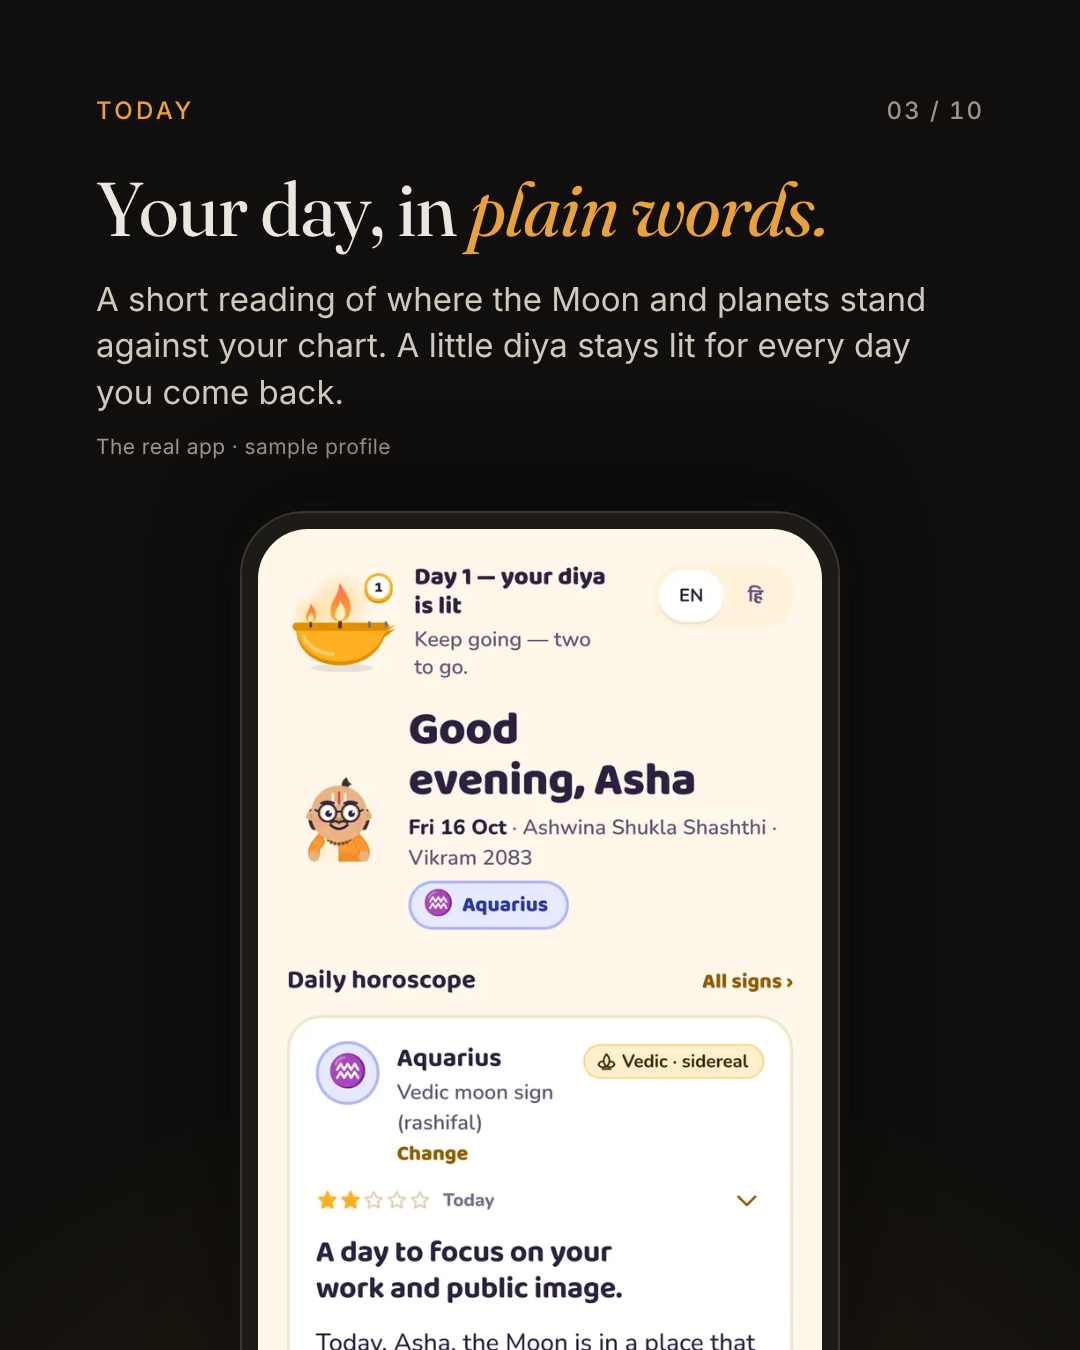
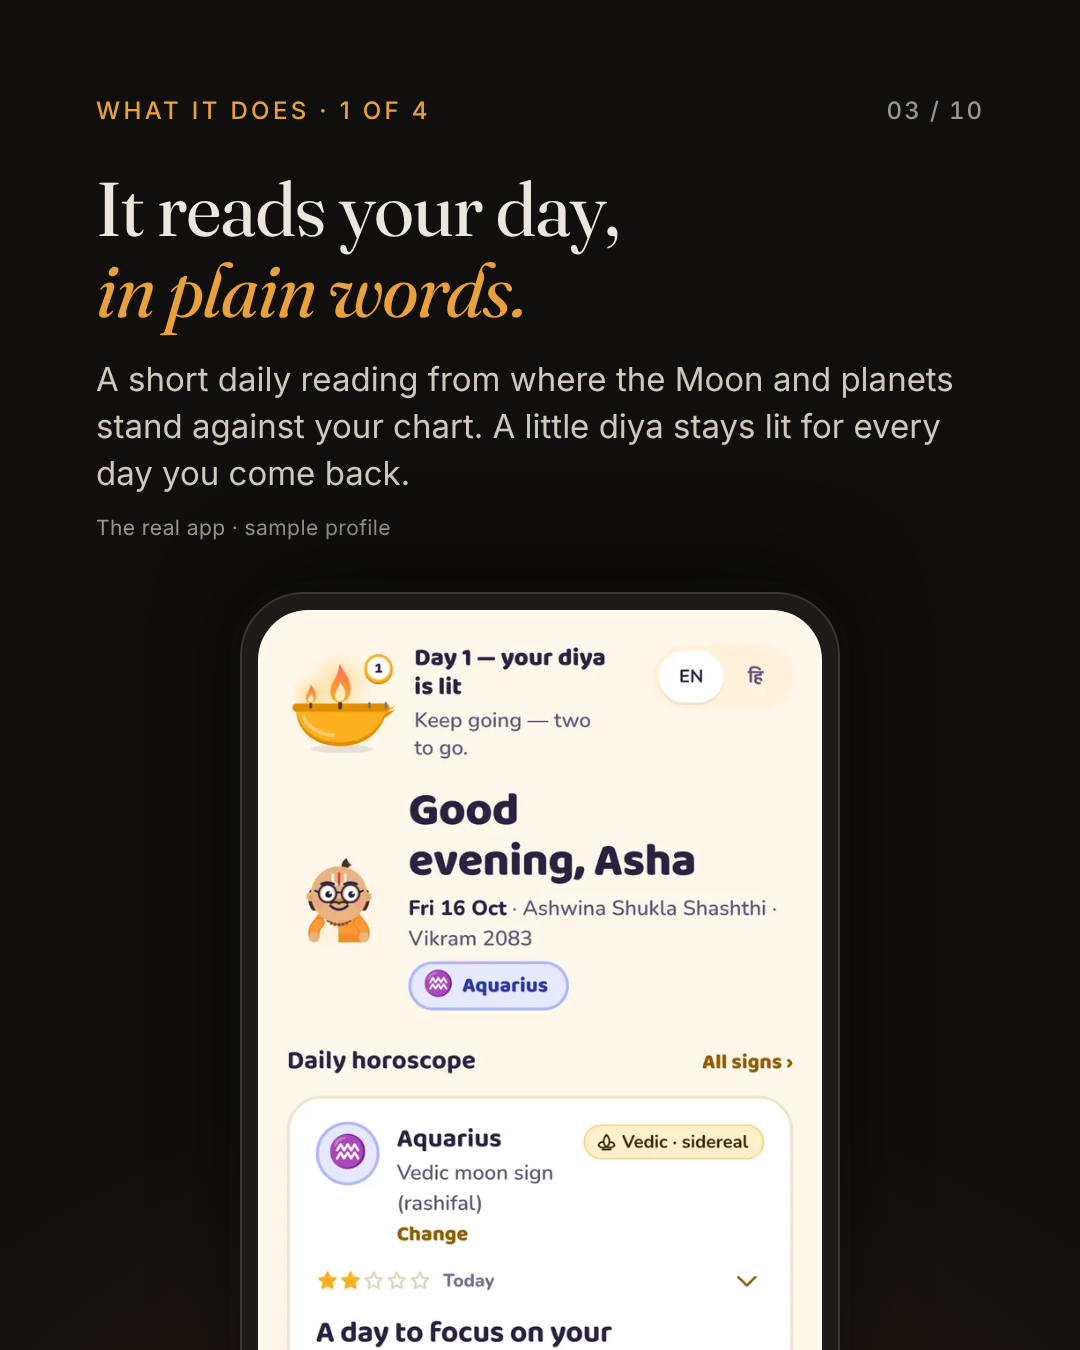
Panditji carousel round 2: clearer story, Vedic + Western slide, new bio drafts
Claude-Session: https://claude.ai/code/session_01ETPVMMqc96YaFkH6zGtrBn

diff --git a/ops/pipeline/001-panditji-launch-carousel/carousel/src/slides.html b/ops/pipeline/001-panditji-launch-carousel/carousel/src/slides.html
@@ -42,6 +42,15 @@
   .crop-low img { margin-top: -330px; }
   #s2 { padding-bottom: 110px; }
   #s2 .rule { margin-top: auto; }
+  .next { margin-top: 44px; font-size: 30px; font-weight: 500; color: var(--warm); letter-spacing: .01em; }
+  .pair { display: flex; gap: 36px; justify-content: center; margin-top: 44px; }
+  .pair .lbl { font-size: 24px; letter-spacing: .12em; text-transform: uppercase; color: var(--warm); font-weight: 500; text-align: center; margin-bottom: 18px; }
+  .phone.sm { width: 420px; margin-top: 0; border-radius: 48px; padding: 12px; }
+  .phone.sm .screen { border-radius: 38px; }
+  .zoom { height: 610px; }
+  .zoom img { max-width: none; }
+  .zoom .zv { width: 445px; margin: -228px 0 0 -24px; }
+  .zoom .zw { width: 441px; margin: -248px 0 0 -23px; }
 
   /* cover */
   .cover { display: flex; flex-direction: column; padding-bottom: 96px; }
@@ -112,44 +121,48 @@
   <div class="say"><b>pun-dith-jee</b></div>
   <div class="say">A learned person a family trusts and turns to.</div>
   <div class="rule"></div>
-  <h2>Many of us now live far from that <em>phone number.</em></h2>
-  <p class="body">So I built Panditji, an astrology app with an AI guide. It doesn’t replace him. It keeps you company when he’s far away.</p>
+  <h2>Many of us now live far from the Panditji <em>we grew up with.</em></h2>
+  <p class="body">So I built one for your phone: an astrology app with an AI guide that reads your chart and answers your questions, any time of day.</p>
+  <div class="next">Here’s what it does for you<span class="arrow"></span></div>
 </section>
 
 <!-- 3 · today -->
 <section class="slide" id="s3">
-  <div class="top"><span class="k">Today</span><span class="num">03 / 10</span></div>
-  <h2>Your day, in <em>plain words.</em></h2>
-  <p class="body">A short reading of where the Moon and planets stand against your chart. A little diya stays lit for every day you come back.</p>  <div class="tag">The real app · sample profile</div>
-
+  <div class="top"><span class="k">What it does · 1 of 4</span><span class="num">03 / 10</span></div>
+  <h2>It reads your day, <em>in plain words.</em></h2>
+  <p class="body">A short daily reading from where the Moon and planets stand against your chart. A little diya stays lit for every day you come back.</p>
+  <div class="tag">The real app · sample profile</div>
   <div class="phone"><div class="screen"><img src="img/today.webp" alt=""></div></div>
 </section>
 
 <!-- 4 · good times -->
 <section class="slide" id="s4">
-  <div class="top"><span class="k">Good times</span><span class="num">04 / 10</span></div>
-  <h2>Hours to start, hours <em>to avoid.</em></h2>
-  <p class="body">Pick what it’s for, like travel or a new home, and it stars the best windows for your city.</p>  <div class="tag">The real app · sample profile</div>
-
+  <div class="top"><span class="k">What it does · 2 of 4</span><span class="num">04 / 10</span></div>
+  <h2>It finds good hours to begin, <em>and ones to avoid.</em></h2>
+  <p class="body">Pick what it’s for, like travel or a new home, and it stars the best windows for your city.</p>
+  <div class="tag">The real app · sample profile</div>
   <div class="phone"><div class="screen crop-low"><img src="img/timing.webp" alt=""></div></div>
 </section>
 
 <!-- 5 · ask -->
 <section class="slide" id="s5">
-  <div class="top"><span class="k">Ask</span><span class="num">05 / 10</span></div>
-  <h2>Ask in your <em>own words.</em></h2>
-  <p class="body">Panditji answers from your own chart and shows the planets behind each answer. Tap one to see the numbers.</p>  <div class="tag">The real app · sample profile</div>
-
+  <div class="top"><span class="k">What it does · 3 of 4</span><span class="num">05 / 10</span></div>
+  <h2>It answers your questions, <em>from your own chart.</em></h2>
+  <p class="body">Ask about work, marriage or a move in your own words, and Panditji answers from your birth chart.</p>
+  <div class="tag">The real app · sample profile</div>
   <div class="phone"><div class="screen"><img src="img/ask-top.webp" alt=""></div></div>
 </section>
 
-<!-- 6 · chart -->
+<!-- 6 · vedic or western -->
 <section class="slide" id="s6">
-  <div class="top"><span class="k">Your chart</span><span class="num">06 / 10</span></div>
-  <h2>Your kundli, a house <em>at a time.</em></h2>
-  <p class="body">Tap a house to see what part of life it governs. Vedic or Western, English or हिंदी.</p>  <div class="tag">The real app · sample profile</div>
-
-  <div class="phone"><div class="screen"><img src="img/chart.webp" alt=""></div></div>
+  <div class="top"><span class="k">What it does · 4 of 4</span><span class="num">06 / 10</span></div>
+  <h2>Vedic or Western, it reads your chart <em>your way.</em></h2>
+  <p class="body">Whichever tradition you follow, Panditji draws your chart in it and explains it in plain words.</p>
+  <div class="tag">The real app · the same sample profile, both ways</div>
+  <div class="pair">
+    <div><div class="lbl">Vedic kundli</div><div class="phone sm"><div class="screen zoom"><img class="zv" src="img/chart.webp" alt=""></div></div></div>
+    <div><div class="lbl">Western birth chart</div><div class="phone sm"><div class="screen zoom"><img class="zw" src="img/chart-western.webp" alt=""></div></div></div>
+  </div>
 </section>
 
 <!-- 7 · says no -->

diff --git a/ops/pipeline/001-panditji-launch-carousel/carousel.md b/ops/pipeline/001-panditji-launch-carousel/carousel.md
@@ -16,11 +16,11 @@ panditji-seven.vercel.app, and ends on "follow tangentideas.ai / link in bio". P
 
 ## Slide copy (every claim sourced from the owner-approved Labs page, labs.tangentideas.ai/panditji)
 1. Cover. "Every family had someone to ask." / When to travel, when to sign the lease, when to begin something new. / Meet Panditji · Swipe
-2. पंडितजी · pun-dith-jee · A learned person a family trusts and turns to. / "Many of us now live far from that phone number." / So I built Panditji, an astrology app with an AI guide. It doesn't replace him. It keeps you company when he's far away.
-3. Today: "Your day, in plain words." + Today screen.
-4. Good times: "Hours to start, hours to avoid." + Timing screen (day strip, starred Wednesday, day dial).
-5. Ask: "Ask in your own words." Answers from your own chart; tap a planet to see the numbers.
-6. Your chart: "Your kundli, a house at a time." Vedic or Western, English or हिंदी.
+2. पंडितजी · pun-dith-jee · A learned person a family trusts and turns to. / "Many of us now live far from the Panditji we grew up with." / So I built one for your phone: an astrology app with an AI guide that reads your chart and answers your questions, any time of day. / "Here's what it does for you →"
+3. What it does · 1 of 4: "It reads your day, in plain words." + Today screen.
+4. What it does · 2 of 4: "It finds good hours to begin, and ones to avoid." + Timing screen (day strip, starred Wednesday, day dial).
+5. What it does · 3 of 4: "It answers your questions, from your own chart." Ask about work, marriage or a move in your own words.
+6. What it does · 4 of 4: "Vedic or Western, it reads your chart your way." Two phones side by side, same sample profile: Vedic kundli (Labs screenshot) and Western birth chart (shot 2026-11-12 from a local build of panditji main, `img/chart-western.webp`).
 7. It knows when to say no: "It won't tell you when you'll die. Or which coin will 10x." + the real refusal screen.
 8. How it works: "The AI isn't allowed to guess." Phone does the maths (checked vs NASA JPL, Swiss Ephemeris, Drik Panchang) · the AI only explains it and can be wrong · your chart stays on your phone, no ads.
 9. Get it: "Free. No app store needed." panditji-seven.vercel.app · Safari/Chrome · Add to Home Screen / Install app · Get a code by email · open in your browser, not inside Instagram · 18+.
@@ -46,17 +46,28 @@ The kit's `instagram_caption` disclosure line (names Claude + the critic) is wri
 it does not describe how this app works, so it is deliberately not used here.
 
 ## Bio (draft, Instagram limit 150 chars)
-Recommended, B (144 chars):
+Round 1 (lists "AI apps" + "photographs") rejected by Sparsh 2026-11-12: jarring; don't call out the
+verticals, borrow the general definition of a tangent from the hub (tangentideas.ai) instead.
+
+Round 2, recommended (144 chars):
 ```
-AI apps for the small problems of everyday life.
-Photographs an AI agent edits; I choose what ships.
-Machine craft, human taste.
+A tangent touches a circle at one point, then goes its own way.
+Everyday life is the circle. These are the ideas that leave it.
 New: Panditji ↓
 ```
-Alternatives: A (148) leads with the tagline; C (121) "Ideas that leave the circle." leads with the name's story.
+Alternatives:
+- (127) "Everyday life is a circle, left a little open so new ideas can get in. / This is where they set off on their own. / New: Panditji ↓"
+- (132) "Work, sleep, repeat: that's the circle. / A tangent touches it once and sets off on its own. / Here's where my ideas go. / New: Panditji ↓"
+Name field (searchable, separate from the bio): "Tangent Ideas · Sparsh Gupta".
 Links (IG allows up to 5): 1) panditji-seven.vercel.app titled "Panditji, free astrology app";
 2) tangentideas.ai. Do NOT link tangent.gallery (retired per tangent-sites/CLAUDE.md; the bio drafts in
 `knowledge/brand/tangent-voice.md` still point there and are stale).
+
+## Round 1 feedback (Sparsh, 2026-11-12), all taken
+- Slide 2 "phone number" line and "doesn't replace him / keeps you company" were confusing → rewritten.
+- 2→3 jump into screenshots had no setup → bridge line on slide 2 + "What it does · n of 4" kickers on 3-6.
+- Slide 5 "tap one to see the numbers" confusing → removed.
+- Slide 6 languages irrelevant and Vedic-only → Vedic + Western side by side, "your way" headline.
 
 ## Decisions + open questions
 - Frame is the dark Tangent world (sites palette #100f0d / #ece7de, Fraunces + Inter); the app keeps its
